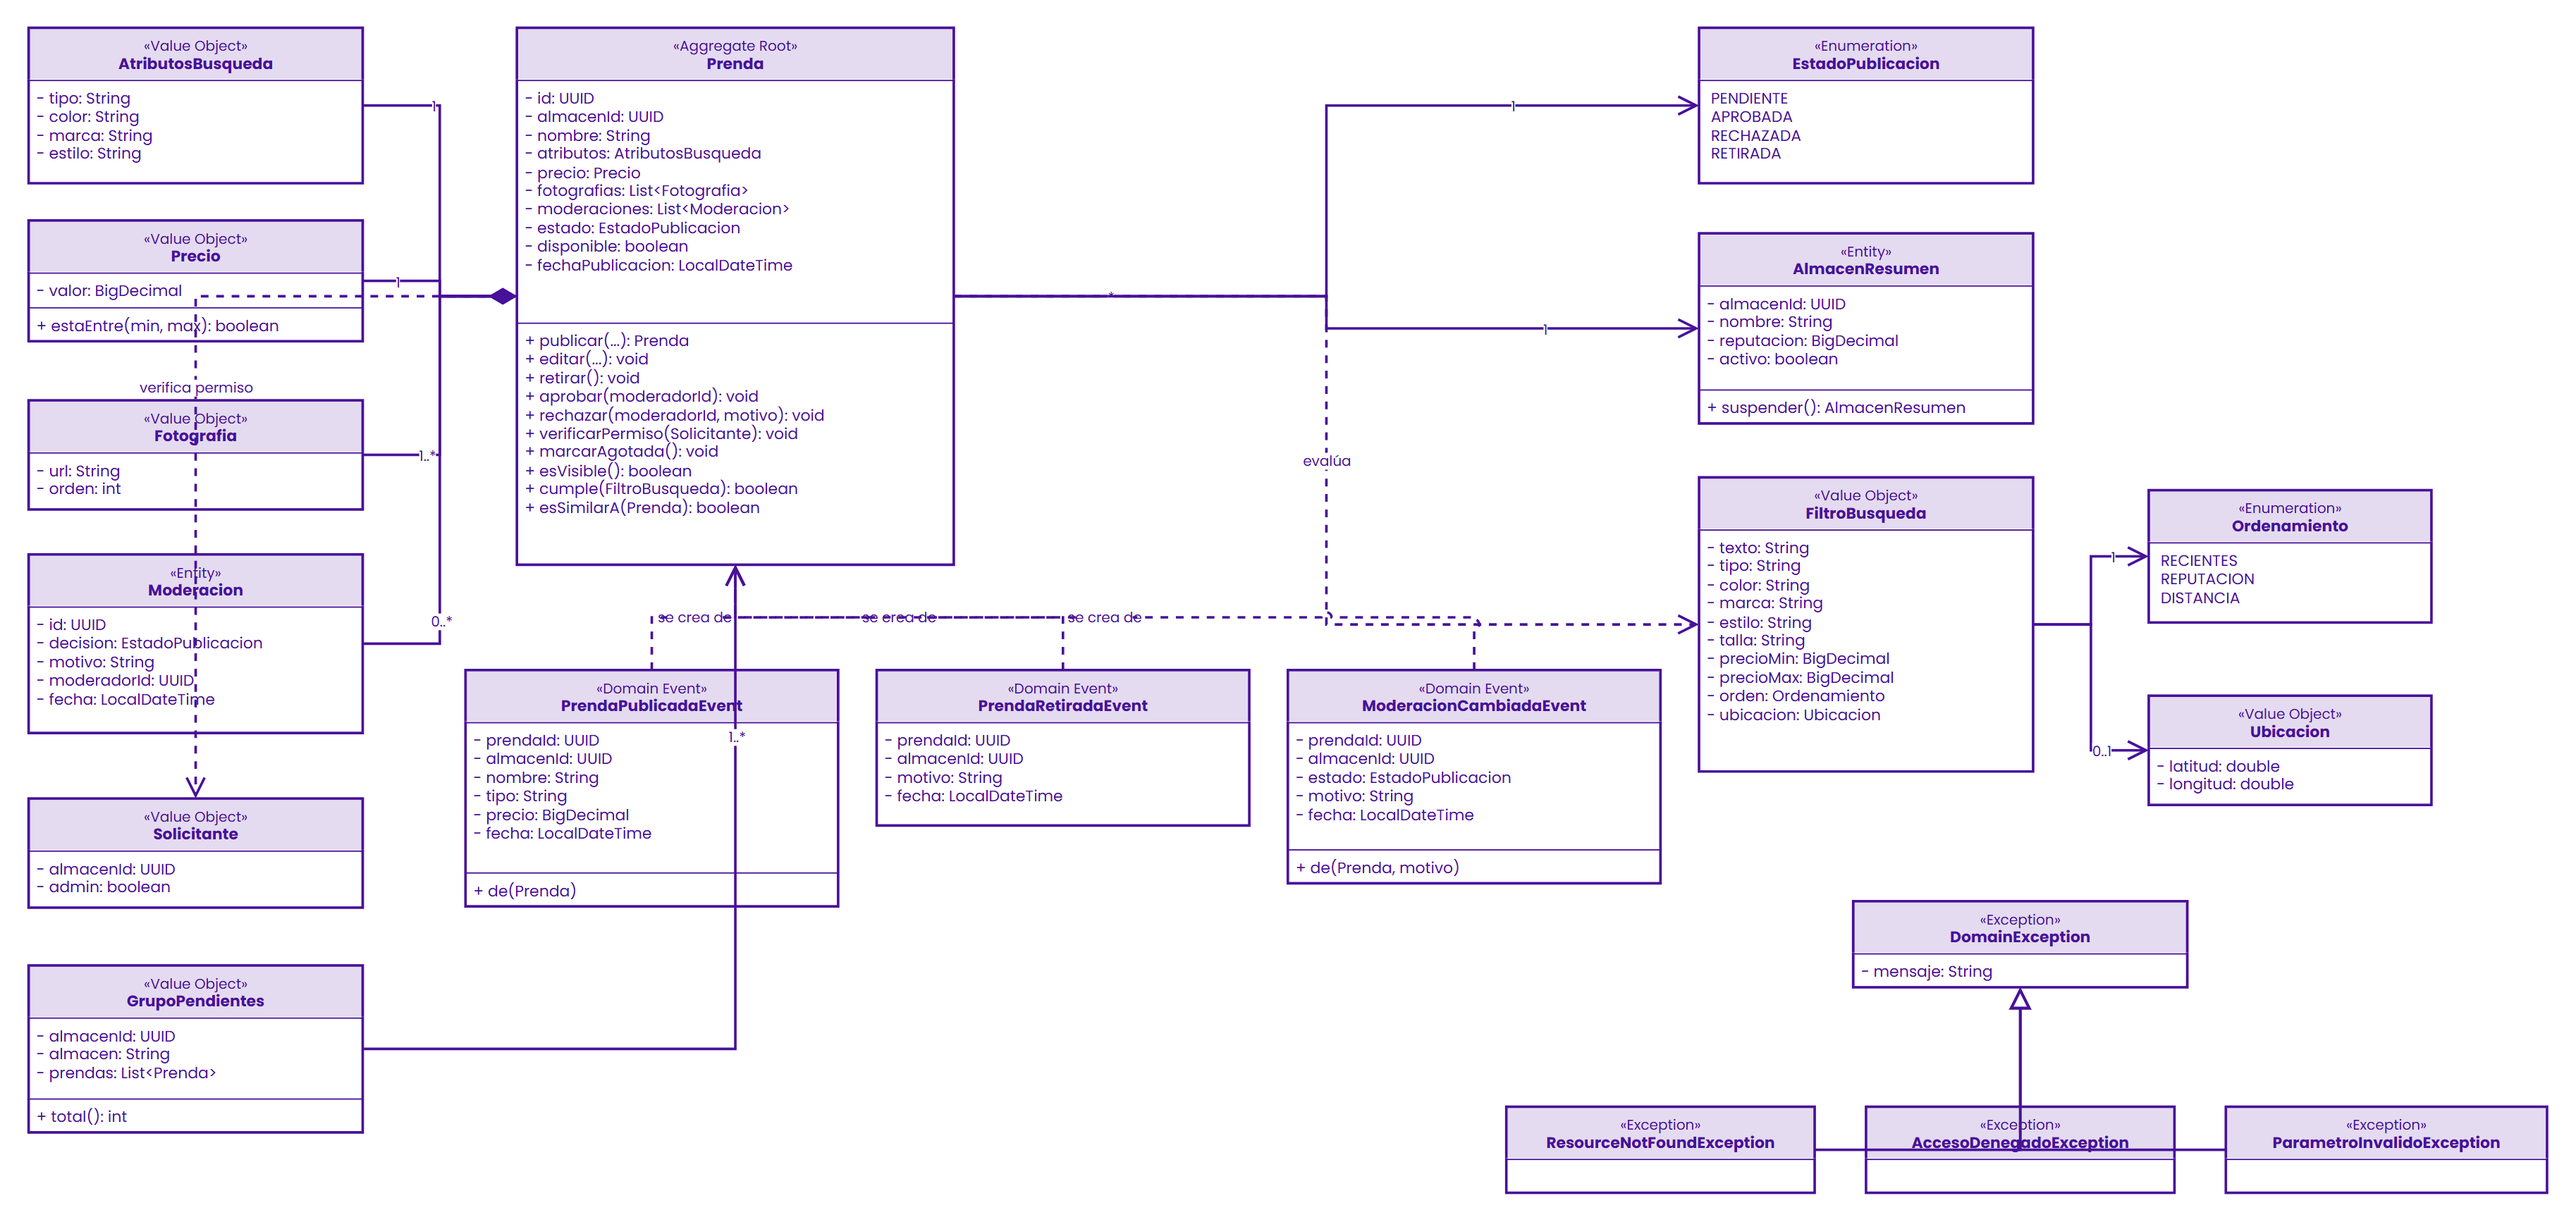
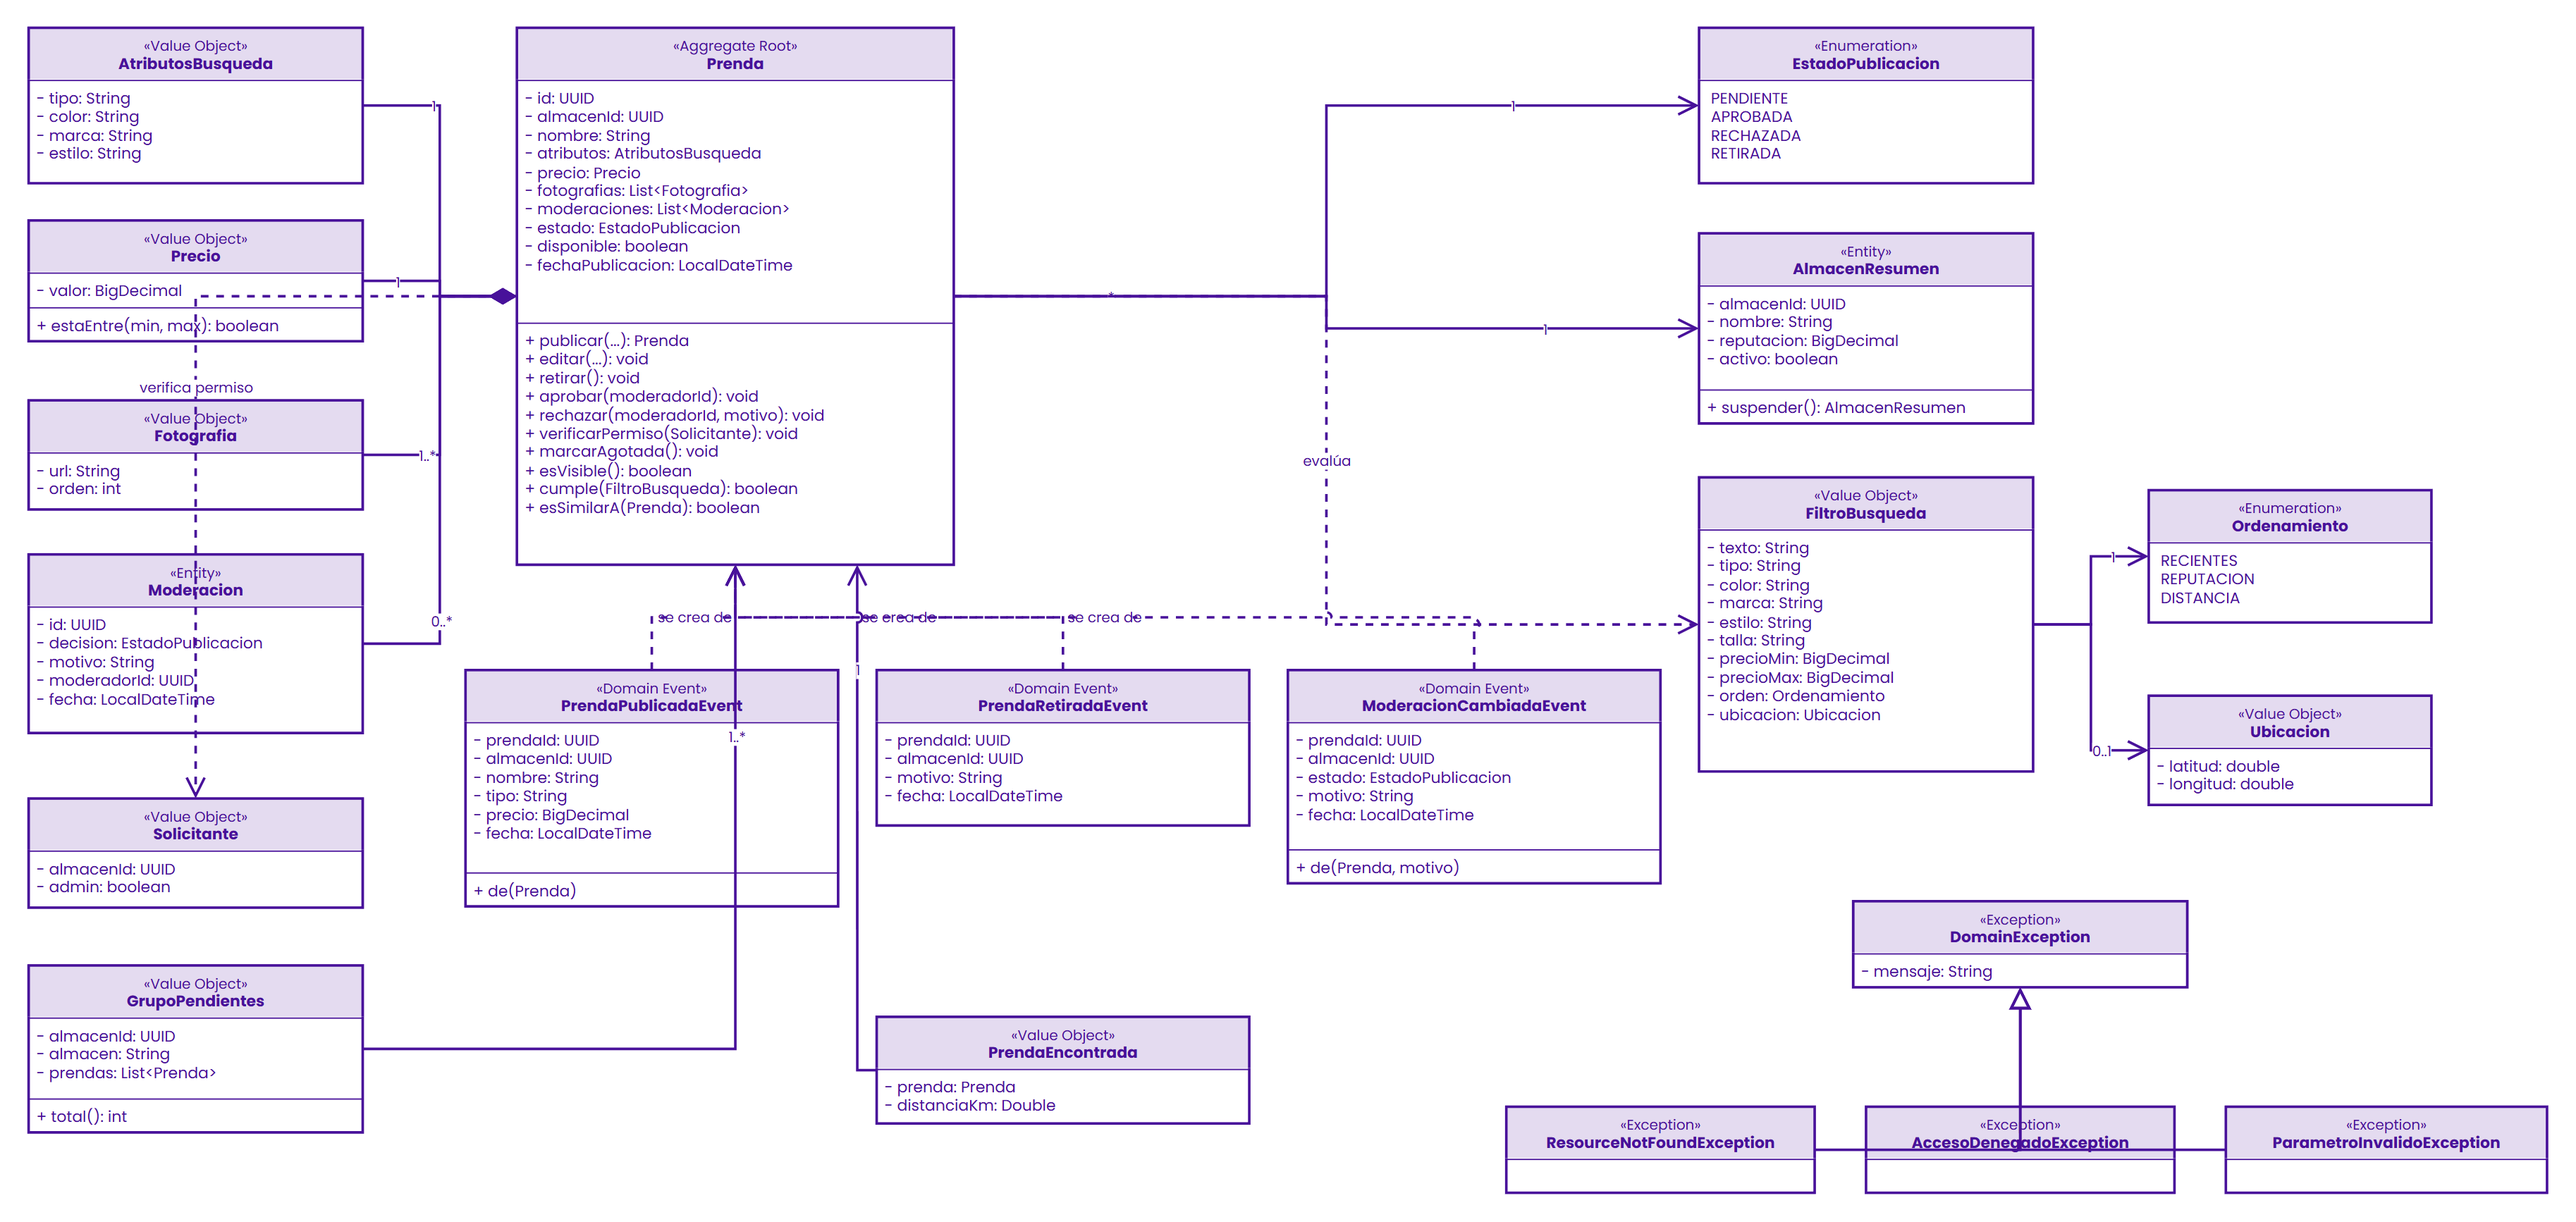
feat(busqueda): devolver la distancia al almacén en cada prenda

Changed region(s): [[0.312, 0.8097, 0.4992, 0.9343]]

diff --git a/src/test/java/edu/dosw/styleradar/itemcatalogo/application/usecase/BuscarPrendasUseCaseImplTest.java b/src/test/java/edu/dosw/styleradar/itemcatalogo/application/usecase/BuscarPrendasUseCaseImplTest.java
@@ -7,6 +7,7 @@ import edu.dosw.styleradar.itemcatalogo.domain.model.EstadoPublicacion;
 import edu.dosw.styleradar.itemcatalogo.domain.model.FiltroBusqueda;
 import edu.dosw.styleradar.itemcatalogo.domain.model.Ordenamiento;
 import edu.dosw.styleradar.itemcatalogo.domain.model.Prenda;
+import edu.dosw.styleradar.itemcatalogo.domain.model.PrendaEncontrada;
 import edu.dosw.styleradar.itemcatalogo.domain.model.Ubicacion;
 import edu.dosw.styleradar.itemcatalogo.domain.port.out.AlmacenRepositoryPort;
 import edu.dosw.styleradar.itemcatalogo.domain.port.out.DistanciaAlmacenPort;
@@ -58,21 +59,21 @@ class BuscarPrendasUseCaseImplTest {
 
     @Test
     void porDefectoOrdenaPorRecientesYOcultaAlmacenesSuspendidos() {
-        List<Prenda> resultado = useCase.buscar(new FiltroBusqueda(null, null, null, null, null, null, null, null, null, null));
+        List<Prenda> resultado = buscar(new FiltroBusqueda(null, null, null, null, null, null, null, null, null, null));
 
         assertThat(resultado).containsExactly(reciente, antigua);
     }
 
     @Test
     void ordenaPorReputacionDelAlmacen() {
-        List<Prenda> resultado = useCase.buscar(new FiltroBusqueda(null, null, null, null, null, null, null, null, Ordenamiento.REPUTACION, null));
+        List<Prenda> resultado = buscar(new FiltroBusqueda(null, null, null, null, null, null, null, null, Ordenamiento.REPUTACION, null));
 
         assertThat(resultado).containsExactly(antigua, reciente);
     }
 
     @Test
     void aplicaElFiltro() {
-        List<Prenda> resultado = useCase.buscar(new FiltroBusqueda(null, "Vestido", null, null, null, null, null, null, null, null));
+        List<Prenda> resultado = buscar(new FiltroBusqueda(null, "Vestido", null, null, null, null, null, null, null, null));
 
         assertThat(resultado).isEmpty();
     }
@@ -99,11 +100,32 @@ class BuscarPrendasUseCaseImplTest {
         when(distancias.kilometros(buenaReputacion.almacenId(), usuario)).thenReturn(3.5);
         when(distancias.kilometros(bajaReputacion.almacenId(), usuario)).thenReturn(0.4);
 
-        List<Prenda> resultado = useCase.buscar(
+        List<Prenda> resultado = buscar(
                 new FiltroBusqueda(null, null, null, null, null, null, null, null, Ordenamiento.DISTANCIA, usuario));
 
         assertThat(resultado).containsExactly(reciente, otraDelAlmacenCercano, antigua);
         verify(distancias, times(1)).kilometros(bajaReputacion.almacenId(), usuario);
+    }
+
+    @Test
+    void conUbicacionDevuelveLaDistanciaDeCadaPrenda() {
+        when(distancias.kilometros(buenaReputacion.almacenId(), usuario)).thenReturn(3.5);
+        when(distancias.kilometros(bajaReputacion.almacenId(), usuario)).thenReturn(0.4);
+
+        List<PrendaEncontrada> resultado = useCase.buscar(
+                new FiltroBusqueda(null, null, null, null, null, null, null, null, null, usuario));
+
+        assertThat(resultado).extracting(PrendaEncontrada::prenda).containsExactly(reciente, antigua);
+        assertThat(resultado).extracting(PrendaEncontrada::distanciaKm).containsExactly(0.4, 3.5);
+    }
+
+    @Test
+    void sinUbicacionNoConsultaDistancias() {
+        List<PrendaEncontrada> resultado = useCase.buscar(
+                new FiltroBusqueda(null, null, null, null, null, null, null, null, null, null));
+
+        assertThat(resultado).extracting(PrendaEncontrada::distanciaKm).containsOnlyNulls();
+        verifyNoInteractions(distancias);
     }
 
     @Test
@@ -140,10 +162,14 @@ class BuscarPrendasUseCaseImplTest {
     void filtraPorTallaSoloLasPrendasConStockEnInventario() {
         when(tallas.prendasConStock("M")).thenReturn(Set.of(antigua.getId(), deSuspendido.getId()));
 
-        List<Prenda> resultado = useCase.buscar(new FiltroBusqueda(null, null, null, null, null, "M", null, null, null, null));
+        List<Prenda> resultado = buscar(new FiltroBusqueda(null, null, null, null, null, "M", null, null, null, null));
 
         assertThat(resultado).containsExactly(antigua);
         verify(tallas, times(1)).prendasConStock("M");
+    }
+
+    private List<Prenda> buscar(FiltroBusqueda filtro) {
+        return useCase.buscar(filtro).stream().map(PrendaEncontrada::prenda).toList();
     }
 
     @Test

diff --git a/src/main/java/edu/dosw/styleradar/itemcatalogo/application/usecase/BuscarPrendasUseCaseImpl.java b/src/main/java/edu/dosw/styleradar/itemcatalogo/application/usecase/BuscarPrendasUseCaseImpl.java
@@ -7,6 +7,7 @@ import edu.dosw.styleradar.itemcatalogo.domain.model.EstadoPublicacion;
 import edu.dosw.styleradar.itemcatalogo.domain.model.FiltroBusqueda;
 import edu.dosw.styleradar.itemcatalogo.domain.model.Ordenamiento;
 import edu.dosw.styleradar.itemcatalogo.domain.model.Prenda;
+import edu.dosw.styleradar.itemcatalogo.domain.model.PrendaEncontrada;
 import edu.dosw.styleradar.itemcatalogo.domain.port.in.BuscarPrendasUseCase;
 import edu.dosw.styleradar.itemcatalogo.domain.port.out.AlmacenRepositoryPort;
 import edu.dosw.styleradar.itemcatalogo.domain.port.out.DistanciaAlmacenPort;
@@ -41,7 +42,7 @@ public class BuscarPrendasUseCaseImpl implements BuscarPrendasUseCase {
     }
 
     @Override
-    public List<Prenda> buscar(FiltroBusqueda filtro) {
+    public List<PrendaEncontrada> buscar(FiltroBusqueda filtro) {
         if (filtro.orden() == Ordenamiento.DISTANCIA && filtro.ubicacion() == null) {
             throw new ParametroInvalidoException("Para ordenar por distancia se debe indicar la ubicación (lat y lng)");
         }
@@ -52,9 +53,21 @@ public class BuscarPrendasUseCaseImpl implements BuscarPrendasUseCase {
                 .filter(p -> p.cumple(filtro))
                 .filter(p -> conTalla == null || conTalla.contains(p.getId()))
                 .toList();
+        Map<UUID, Double> kilometros = distancias(filtro, resultado);
         return resultado.stream()
-                .sorted(orden(filtro, almacenes, resultado))
+                .sorted(orden(filtro, almacenes, kilometros))
+                .map(p -> new PrendaEncontrada(p, kilometros.get(p.getAlmacenId())))
                 .toList();
+    }
+
+    private Map<UUID, Double> distancias(FiltroBusqueda filtro, List<Prenda> resultado) {
+        if (filtro.ubicacion() == null) {
+            return Map.of();
+        }
+        return resultado.stream()
+                .map(Prenda::getAlmacenId)
+                .distinct()
+                .collect(Collectors.toMap(Function.identity(), id -> distanciaAlmacen.kilometros(id, filtro.ubicacion())));
     }
 
     private static void validarRangoPrecio(BigDecimal precioMin, BigDecimal precioMax) {
@@ -90,12 +103,8 @@ public class BuscarPrendasUseCaseImpl implements BuscarPrendasUseCase {
                 .toList();
     }
 
-    private Comparator<Prenda> orden(FiltroBusqueda filtro, Map<UUID, AlmacenResumen> almacenes, List<Prenda> resultado) {
+    private Comparator<Prenda> orden(FiltroBusqueda filtro, Map<UUID, AlmacenResumen> almacenes, Map<UUID, Double> kilometros) {
         if (filtro.orden() == Ordenamiento.DISTANCIA) {
-            Map<UUID, Double> kilometros = resultado.stream()
-                    .map(Prenda::getAlmacenId)
-                    .distinct()
-                    .collect(Collectors.toMap(Function.identity(), id -> distanciaAlmacen.kilometros(id, filtro.ubicacion())));
             return Comparator.comparingDouble(p -> kilometros.get(p.getAlmacenId()));
         }
         if (filtro.orden() == Ordenamiento.REPUTACION) {

diff --git a/src/main/java/edu/dosw/styleradar/itemcatalogo/application/mapper/in/PrendaMapperIn.java b/src/main/java/edu/dosw/styleradar/itemcatalogo/application/mapper/in/PrendaMapperIn.java
@@ -10,6 +10,7 @@ import edu.dosw.styleradar.itemcatalogo.domain.model.Fotografia;
 import edu.dosw.styleradar.itemcatalogo.domain.model.GrupoPendientes;
 import edu.dosw.styleradar.itemcatalogo.domain.model.Precio;
 import edu.dosw.styleradar.itemcatalogo.domain.model.Prenda;
+import edu.dosw.styleradar.itemcatalogo.domain.model.PrendaEncontrada;
 
 import java.util.List;
 import java.util.UUID;
@@ -38,11 +39,23 @@ public final class PrendaMapperIn {
     }
 
     public static PrendaResponse toResponse(Prenda prenda) {
+        return toResponse(prenda, null);
+    }
+
+    public static PrendaResponse toResponse(PrendaEncontrada encontrada) {
+        return toResponse(encontrada.prenda(), encontrada.distanciaKm());
+    }
+
+    public static List<PrendaResponse> toEncontradas(List<PrendaEncontrada> encontradas) {
+        return encontradas.stream().map(PrendaMapperIn::toResponse).toList();
+    }
+
+    private static PrendaResponse toResponse(Prenda prenda, Double distanciaKm) {
         AtributosBusqueda a = prenda.getAtributos();
         return new PrendaResponse(prenda.getId(), prenda.getAlmacenId(), prenda.getNombre(), a.tipo(), a.color(),
                 a.marca(), a.estilo(), prenda.getPrecio().valor(),
                 prenda.getFotografias().stream().map(Fotografia::url).toList(),
-                prenda.getEstado().name(), prenda.isDisponible(), prenda.getFechaPublicacion());
+                prenda.getEstado().name(), prenda.isDisponible(), prenda.getFechaPublicacion(), distanciaKm);
     }
 
     public static List<PrendaResponse> toResponse(List<Prenda> prendas) {

diff --git a/src/test/java/edu/dosw/styleradar/itemcatalogo/infrastructure/adapter/in/rest/ControllersTest.java b/src/test/java/edu/dosw/styleradar/itemcatalogo/infrastructure/adapter/in/rest/ControllersTest.java
@@ -11,6 +11,7 @@ import edu.dosw.styleradar.itemcatalogo.domain.model.Fotografia;
 import edu.dosw.styleradar.itemcatalogo.domain.model.GrupoPendientes;
 import edu.dosw.styleradar.itemcatalogo.domain.model.Precio;
 import edu.dosw.styleradar.itemcatalogo.domain.model.Prenda;
+import edu.dosw.styleradar.itemcatalogo.domain.model.PrendaEncontrada;
 import edu.dosw.styleradar.itemcatalogo.domain.model.Solicitante;
 import edu.dosw.styleradar.itemcatalogo.domain.port.in.BuscarPrendasUseCase;
 import edu.dosw.styleradar.itemcatalogo.domain.port.in.ConsultarCatalogoAlmacenUseCase;
@@ -42,13 +43,14 @@ class ControllersTest {
     @Test
     void buscaYConsultaSimilares() {
         BuscarPrendasUseCase useCase = mock(BuscarPrendasUseCase.class);
-        when(useCase.buscar(any())).thenReturn(List.of(prenda));
+        when(useCase.buscar(any())).thenReturn(List.of(new PrendaEncontrada(prenda, 1.5)));
         when(useCase.similares(prenda.getId())).thenReturn(List.of());
         BusquedaPrendaController controller = new BusquedaPrendaController(useCase);
 
         ResponseEntity<List<PrendaResponse>> busqueda = controller.buscar("denim", null, null, null, null, null, null, null, null, null, null);
 
         assertThat(busqueda.getBody()).extracting(PrendaResponse::nombre).containsExactly("Chaqueta denim");
+        assertThat(busqueda.getBody()).extracting(PrendaResponse::distanciaKm).containsExactly(1.5);
         assertThat(controller.similares(prenda.getId()).getBody()).isEmpty();
     }
 

diff --git a/src/main/java/edu/dosw/styleradar/itemcatalogo/infrastructure/adapter/in/rest/BusquedaPrendaController.java b/src/main/java/edu/dosw/styleradar/itemcatalogo/infrastructure/adapter/in/rest/BusquedaPrendaController.java
@@ -43,7 +43,7 @@ public class BusquedaPrendaController implements BusquedaPrendaApi {
                                                        @RequestParam(required = false) Double lng) {
         Ubicacion ubicacion = lat != null && lng != null ? new Ubicacion(lat, lng) : null;
         FiltroBusqueda filtro = new FiltroBusqueda(texto, tipo, color, marca, estilo, talla, precioMin, precioMax, orden, ubicacion);
-        return ResponseEntity.ok(PrendaMapperIn.toResponse(buscarPrendas.buscar(filtro)));
+        return ResponseEntity.ok(PrendaMapperIn.toEncontradas(buscarPrendas.buscar(filtro)));
     }
 
     @Override

diff --git a/src/main/java/edu/dosw/styleradar/itemcatalogo/domain/port/in/BuscarPrendasUseCase.java b/src/main/java/edu/dosw/styleradar/itemcatalogo/domain/port/in/BuscarPrendasUseCase.java
@@ -2,13 +2,14 @@ package edu.dosw.styleradar.itemcatalogo.domain.port.in;
 
 import edu.dosw.styleradar.itemcatalogo.domain.model.FiltroBusqueda;
 import edu.dosw.styleradar.itemcatalogo.domain.model.Prenda;
+import edu.dosw.styleradar.itemcatalogo.domain.model.PrendaEncontrada;
 
 import java.util.List;
 import java.util.UUID;
 
 public interface BuscarPrendasUseCase {
 
-    List<Prenda> buscar(FiltroBusqueda filtro);
+    List<PrendaEncontrada> buscar(FiltroBusqueda filtro);
 
     List<Prenda> similares(UUID prendaId);
 }

diff --git a/src/main/java/edu/dosw/styleradar/itemcatalogo/application/dto/response/PrendaResponse.java b/src/main/java/edu/dosw/styleradar/itemcatalogo/application/dto/response/PrendaResponse.java
@@ -7,5 +7,5 @@ import java.util.UUID;
 
 public record PrendaResponse(UUID id, UUID almacenId, String nombre, String tipo, String color, String marca,
                              String estilo, BigDecimal precio, List<String> fotografias, String estado,
-                             boolean disponible, LocalDateTime fechaPublicacion) {
+                             boolean disponible, LocalDateTime fechaPublicacion, Double distanciaKm) {
 }

diff --git a/src/main/java/edu/dosw/styleradar/itemcatalogo/domain/model/PrendaEncontrada.java b/src/main/java/edu/dosw/styleradar/itemcatalogo/domain/model/PrendaEncontrada.java
@@ -1,0 +1,4 @@
+package edu.dosw.styleradar.itemcatalogo.domain.model;
+
+public record PrendaEncontrada(Prenda prenda, Double distanciaKm) {
+}
